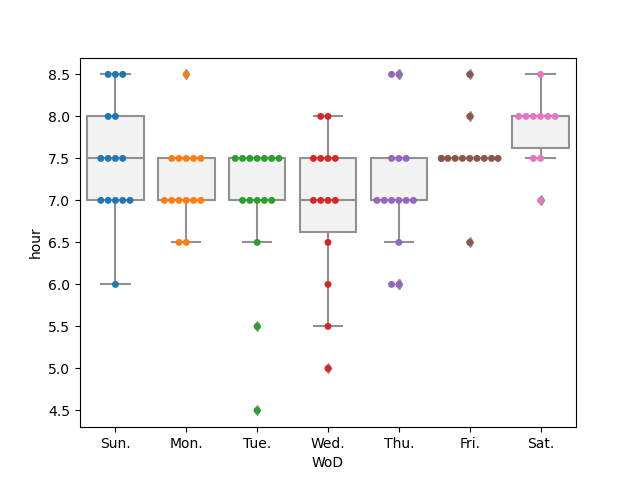
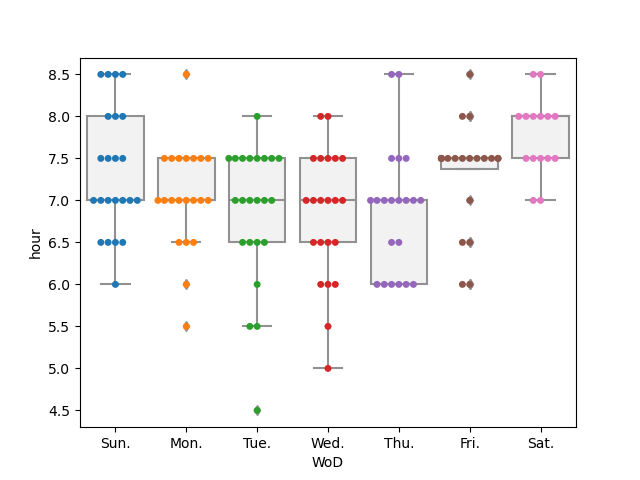
2019.11.01～のデータを追加

diff --git a/index.html b/index.html
@@ -15,6 +15,6 @@
   <body onload="readFirstOnly()">
 その日の睡眠時間と<b>前日の</b>カフェイン飲料摂取量<br><img src='line.png'><br>
     <canvas id="myLineChart"></canvas>
-<img src='reg.png'>
+<img src='reg.png'><br><img src='bar.png'><br><img src='box.png'>
   </body>
 </html>

diff --git a/makeFig.py b/makeFig.py
@@ -42,19 +42,19 @@ csvData.to_json("./data.json")
 # 飲んだ量を翌日の日付と紐づけるために一日ずらしたデータに整形する。
 anlyDf=pd.DataFrame({
   "day":np.concatenate([
-      csvData.day[92:],
-      csvData.day[92:],
+      csvData.day[153:],
+      csvData.day[153:],
       [0], # 飲み物の日付が一日後ろにずれるので行列の大きさを調整する
     ]),
   "type":np.concatenate([
-      np.tile("Sleep(hour)",len(csvData.hour[92:])),
-      (np.tile("Tea/Coffe(100ml)",len(csvData.drank[92:]))),
+      np.tile("Sleep(hour)",len(csvData.hour[153:])),
+      (np.tile("Tea/Coffe(100ml)",len(csvData.drank[153:]))),
       ["Tea/Coffe(100ml)"], # 飲み物の日付が一日後ろにずれるので行列の大きさを調整する
     ]),
   "data":np.concatenate([
-      csvData.hour[92:],
+      csvData.hour[153:],
       [0], # この0mlを挿入することで飲み物の日付を翌日の睡眠時間と合わせる
-      csvData.drank[92:]/100,# 睡眠時間と有効桁数を合わせるために100ml単位にする
+      csvData.drank[153:]/100,# 睡眠時間と有効桁数を合わせるために100ml単位にする
     ]),
   })  
 print(anlyDf)
@@ -102,4 +102,8 @@ with open("index.html", mode="w", encoding="utf_8") as fileObj:
   fileObj.write("<br>")
   fileObj.write(html_lineCanvas)
   fileObj.write("<img src='reg.png'>")
+  fileObj.write("<br>")
+  fileObj.write("<img src='bar.png'>")
+  fileObj.write("<br>")
+  fileObj.write("<img src='box.png'>")
   fileObj.write(html_footer)
